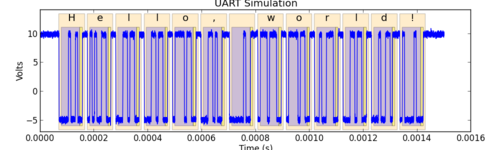
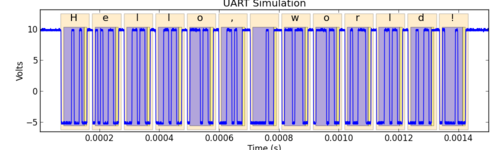
Update documentation with new images

diff --git a/doc/rst/protocols.rst b/doc/rst/protocols.rst
@@ -6,24 +6,159 @@ The Ripyl library supports a number of protocols for decoding. Protocol decoders
 
 The base protocols provided with Ripyl are the following:
 
-* :mod:`UART <.protocol.uart>`
-* :mod:`I2C <.protocol.i2c>` (also handles SMBus)
-* :mod:`SPI <.protocol.spi>`
-* :mod:`PS/2 and AT keyboard <.protocol.ps2>`
-* :mod:`USB 2.0 <.protocol.usb>` (all speeds and HSIC support)
-* :mod:`ISO K-line <.protocol.iso_k_line>` (ISO 9141 and ISO 14230 automotive protocols)
-* :mod:`RC5 <.protocol.infrared.rc5>`
-* :mod:`RC6 <.protocol.infrared.rc6>`
-* :mod:`NEC <.protocol.infrared.nec>`
-* :mod:`SIRC <.protocol.infrared.sirc>`
+* :ref:`I2C <i2c>` (also handles SMBus)
+* :ref:`ISO K-line <kline>` (ISO 9141 and ISO 14230 automotive protocols)
+* :ref:`NEC <nec>`
+* :ref:`PS/2 <ps2>`
+* :ref:`RC5 <rc5>`
+* :ref:`RC6 <rc6>`
+* :ref:`SIRC <sirc>`
+* :ref:`SPI <spi>`
+* :ref:`UART <uart>`
+* :ref:`USB 2.0 <usb>` (all speeds and HSIC support)
 
 
 All base level protocols in the library have functions to support the synthesis of arbitrary waveforms. This can be useful for testing or recreating special circumstances that would be challenging to perform with real hardware.
 
 The higher level protocols provided with Ripyl are:
 
-* :mod:`LM73 <.protocol.lm73>` temperature sensor (SMBus)
-* :mod:`OBD-2 <.protocol.obd2>` automotive ECU message format
-
+* :ref:`LM73 <lm73>` temperature sensor (SMBus)
+* :ref:`OBD-2 <obd2>` automotive ECU message format
 
 The protocol decoders do not check timing parameters to verify that they meet specifications. The emphasis is on getting usable data out of waveforms even if they depart from requirements.
+
+.. _i2c:
+
+I\ :sup:`2`\ C
+--------------
+
+.. image:: ../image/example/i2c_example.png
+    :scale: 60%
+
+The :mod:`i2c <.protocol.i2c>` module decodes the I\ :sup:`2`\ C and SMBus protocols.
+
+.. _kline:
+
+ISO K-line (ISO 9141 and ISO 14230)
+-----------------------------------
+
+.. image:: ../image/example/kline_example.png
+    :scale: 60%
+
+The :mod:`iso_k_line <.protocol.iso_k_line>` module decodes the ISO 9141 and ISO 14230 automotive protocols.
+
+.. _lm73:
+
+LM73
+----
+
+The :mod:`lm73 <.protocol.lm73>` module decodes the SMBus protocol for the LM73 temperature sensor.
+
+.. _nec:
+
+NEC Infrared
+------------
+
++----------------------------------------------+----------------------------------------------------+
+| .. figure:: ../image/example/nec_example.png | .. figure:: ../image/example/nec_nomod_example.png |
+|     :scale: 60%                              |     :scale: 60%                                    |
+|                                              |                                                    |
+|     Modulated NEC protocol                   |     Demodulated NEC protocol                       |
++----------------------------------------------+----------------------------------------------------+
+
+
+
+The :mod:`nec <.protocol.infrared.nec>` module decodes the NEC infrared protocol. It supports modulated (38kHz) and unmodulated input signals.
+
+.. _obd2:
+
+OBD-2
+-----
+
+The :mod:`obd2 <.protocol.obd2>` module provides general support for automotive ECU protocols.
+
+
+.. _ps2:
+
+PS/2
+----
+
+.. image:: ../image/example/ps2_example.png
+    :scale: 60%
+
+The :mod:`ps2 <.protocol.ps2>` module decodes the PS/2 and AT keyboard protocols.
+
+
+.. _rc5:
+
+Philips RC-5 Infrared
+---------------------
+
+.. image:: ../image/example/rc5_example.png
+    :scale: 60%
+
+The :mod:`rc5 <.protocol.infrared.rc5>` module deecodes the Philips RC-5 infrared protocol.
+
+.. _rc6:
+
+Philips RC-6 Infrared
+---------------------
+
+.. image:: ../image/example/rc6_example.png
+    :scale: 60%
+
+The :mod:`rc6 <.protocol.infrared.rc6>` module deecodes the Philips RC-6 infrared protocol.
+
+.. _sirc:
+
+Sony SIRC Infrared
+------------------
+
+.. image:: ../image/example/sirc_example.png
+    :scale: 60%
+
+The :mod:`sirc <.protocol.infrared.sirc>` module decodes the Sony SIRC infrared protocol.
+
+.. _spi:
+
+SPI
+---
+
+.. image:: ../image/example/spi_example.png
+    :scale: 60%
+
+The :mod:`spi <.protocol.spi>` module decodes the SPI protocol.
+
+
+.. _uart:
+
+UART
+----
+
+.. image:: ../image/example/uart_example.png
+    :scale: 60%
+
+The :mod:`uart <.protocol.uart>` module decodes asynchronous serial protocols.
+
+.. _usb:
+
+USB 2.0
+-------
+
+.. image:: ../image/example/usb_fs_example.png
+    :scale: 60%
+
+.. image:: ../image/example/usb_hs_example.png
+    :scale: 60%
+
+.. image:: ../image/example/usb_mix_example.png
+    :scale: 60%
+
+.. image:: ../image/example/usb_data_hs_example.png
+    :scale: 60%
+
+.. image:: ../image/example/hsic_example.png
+    :scale: 60%
+
+The :mod:`usb <.protocol.usb>` module decodes USB 2.0 and HSIC protocols.
+

diff --git a/doc/rst/intro.rst b/doc/rst/intro.rst
@@ -24,14 +24,16 @@ Once you have :doc:`installed Ripyl <installation>` you are ready to use it in P
 This will display some information about the parameters used for the UART protocol and the sampling of the internal synthesizer. If the decode was successful the "Decoded message:" will display the original message encoded in the protocol. If `matplotlib <http://matplotlib.org/>`_ is installed you will also see a plot of the simulated UART waveform annotated with graphics showing the location of frames, data bits (blue) and parity bits (yellow or red).
 
 .. image:: ../image/uart_hello.png
+    :scale: 65%
 
 We can make changes to the synthesized waveform to explore the effect it has on Ripyl.
 
 .. code-block:: sh
 
-  > ripyl_demo -p uart -d "3.2e-4, 4.09e-4"
+  > ripyl_demo -p uart -d "3.4e-4, 5.1e-4"
   
 .. image:: ../image/uart_hello_err.png
+    :scale: 65%
 
 The dropout option (-d) forces the synthesized waveform to a fixed level between the specified start and end times. This causes errors in the decode process which show up in the plotted results. You can see that dropout introduces parity and framing errors that force the decoder out of sync with the correct data. In this case the UART decoder recovers on its own by the sixth character but recovery is not a guarantee. This is an inherent issue with the decoding of corrupt UART signals and not an failure specific to Ripyl.
 
@@ -64,6 +66,7 @@ Here is the test message encoded as a USB data packet:
   > ripyl_demo -p usb
   
 .. image:: ../image/usb_hello.png
+    :scale: 65%
 
 The packet is shown with the PID (Data0), data payload, and checksum (0x6d71).
 
@@ -79,5 +82,8 @@ The ripyl_demo script has a variety of command line options. You can list them w
 -d DROPOUT, --dropout=DROPOUT  Dropout signal from "start,end[,level]"
 -t TITLE, --title=TITLE  Title for plot
 -f FIGSIZE, --figsize=FIGSIZE  Figure size (w,h) in inches
+-l, --label-names     Show field names for text labels
+-a, --no-annotation   Disable plot annotation
+
 
 

diff --git a/doc/index.rst b/doc/index.rst
@@ -24,11 +24,11 @@ The library provides decoded information in an easily traversed tree detailing t
 
 Features include:
     * Multi-protocol support:
-        ==== === ======== ==========
-        HSIC I2C ISO 9141 ISO 14230
-        PS/2 SPI UART     USB 2.0  
-        RC5  RC6 NEC      SIRC
-        ==== === ======== ==========
+        ================= ================ ======================= ========================
+        :ref:`HSIC <usb>` :ref:`I2C <i2c>` :ref:`ISO 9141 <kline>` :ref:`ISO 14230 <kline>`
+        :ref:`PS/2 <ps2>` :ref:`SPI <spi>` :ref:`UART <uart>`      :ref:`USB 2.0 <usb>`
+        :ref:`RC5 <rc5>`  :ref:`RC6 <rc6>` :ref:`NEC <nec>`        :ref:`SIRC <sirc>`
+        ================= ================ ======================= ========================
     * Protocol simulation
     * Annotated plotting
     * Layering of protocols

diff --git a/doc/apidoc/ripyl.util.rst b/doc/apidoc/ripyl.util.rst
@@ -49,11 +49,4 @@ util Package
     :undoc-members:
     :show-inheritance:
 
-:mod:`xstats` Module
---------------------
-
-.. automodule:: ripyl.util.xstats
-    :members:
-    :undoc-members:
-    :show-inheritance:
 

diff --git a/doc/apidoc/ripyl.cython.rst b/doc/apidoc/ripyl.cython.rst
@@ -9,10 +9,4 @@ cython Package
     :undoc-members:
     :show-inheritance:
 
-Subpackages
------------
-
-.. toctree::
-
-    ripyl.cython.util
 
